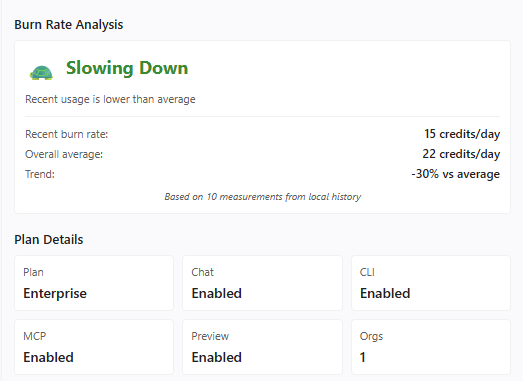
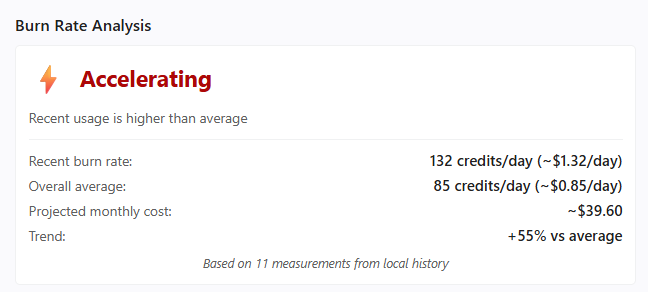
chore: update CHANGELOG and package version to 4.1.1
- Updated CHANGELOG.md to include new features and updates for version 4.1.1.
- Added estimated daily and monthly cost in USD for burn rate analysis.
- Updated screenshot in README to reflect new AI prediction features.
- Bumped package version from 4.0.2 to 4.1.1 in package.json.

diff --git a/CHANGELOG.md b/CHANGELOG.md
@@ -1,5 +1,15 @@
 # Change Log
 
+# [4.1.1] - 2026-06-05
+
+### Updated
+- Updated screenshot in the README to reflect the new AI prediction and burn rate analysis features added in 4.1.0.
+
+# [4.1.0] - 2026-06-04
+
+### Added
+- Estimated daily and monthly cost in USD for burn rate analysis. 
+
 # [4.0.2] - 2026-06-03
 
 ### Added 